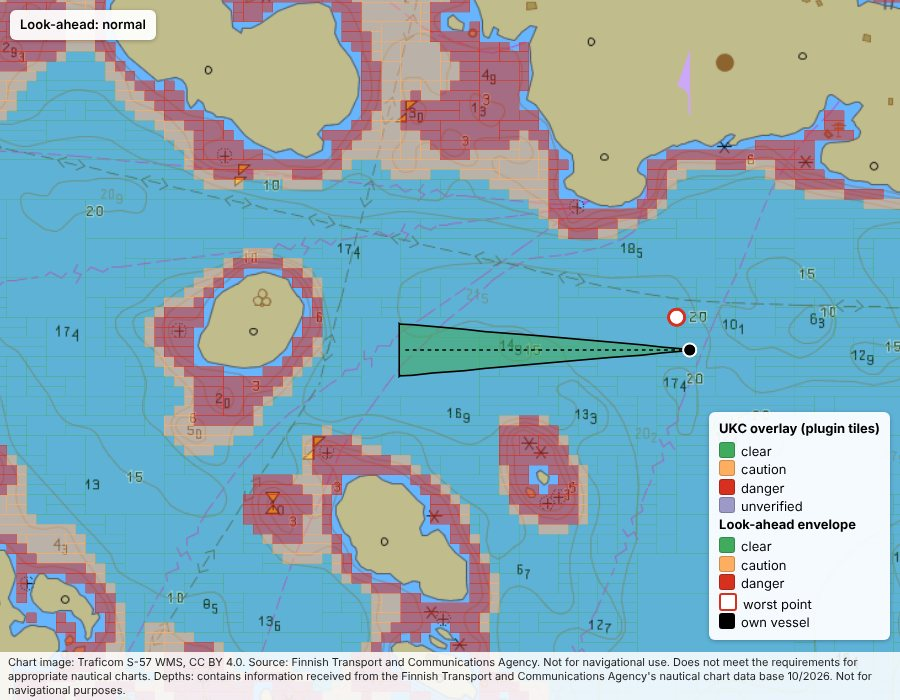
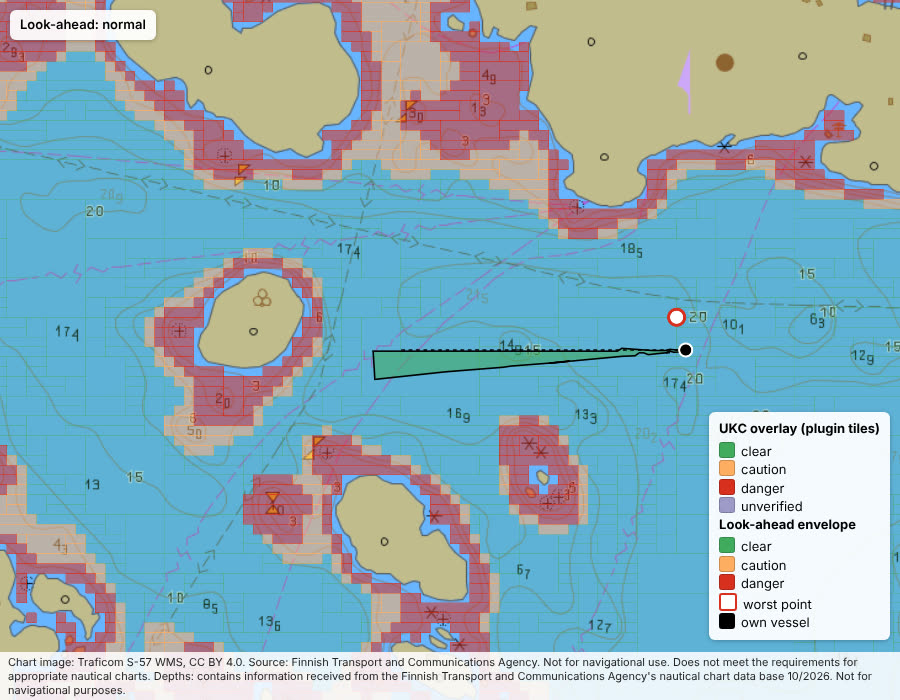
docs: how the M4 look-ahead behaves: fan, hysteresis, escape heading, integrity, acks
The guide now describes the five-member fan and its convex-hull
footprint, why slowing down does not shorten the envelope, state
hysteresis, the escape heading, the position integrity check,
acknowledged passages and mooring zones, and the grounding detector.
The four Nauvo look-ahead screenshots are re-taken on this build and
the approach timings and alarm example match them.

Claude-Session: https://claude.ai/code/session_01RqAaJ4mFiWNeCzGpoFBYWA

diff --git a/docs/HOW-IT-WORKS.md b/docs/HOW-IT-WORKS.md
@@ -209,17 +209,33 @@ flowchart TD
   M -- no --> ONE[check only the hull<br/>at the current position]
   M -- yes --> S{SOG ≥ 0.5 kn?}
   S -- no --> ONE
-  S -- yes --> CONE[footprints along COG<br/>for H = max 60 s, 555.6 m ÷ SOG]
-  ONE & CONE --> Q[for each footprint:<br/>shallowest depth + σ from the index,<br/>P per index tile, keep the highest]
-  Q --> ST[state table, section 7]
-  ST --> PUB[publish values, envelope<br/>and notification]
+  S -- yes --> CONE[fan of five tracks from COG, SOG<br/>and rate of turn, for<br/>H = max 60 s, 555.6 m ÷ SOG]
+  ONE & CONE --> Q[for each step: one footprint<br/>around the five hulls; shallowest depth<br/>+ σ from the index, P per index tile,<br/>keep the highest]
+  Q --> ST[state table and hysteresis,<br/>section 7]
+  ST --> Z{inside an acknowledged<br/>passage or mooring zone?}
+  Z -- yes --> AL[warn and alarm published<br/>as alert with the reason]
+  Z -- no --> PUB[publish values, envelope,<br/>escape heading and notification]
+  AL --> PUB
 ```
 
-A footprint is the hull rectangle (length × beam) turned to the heading, placed where COG and
-SOG put the boat after t seconds. It widens by tan 5° per metre run, because the course
-becomes less certain the further ahead it goes, and it gets a 10 m buffer for position error.
-Footprints are at most 3 s apart; for a fast boat the step shrinks so neighbouring footprints
-still touch. At 5 kn (2.6 m/s) the horizon is 214 s, checked with 73 footprints.
+The prediction is a fan of five tracks. The central track keeps the current speed and rate of
+turn. The other four add or take 1σ of course (5°) and of rate of turn (0.1°/s), because the
+course becomes less certain the further ahead it goes. A turn is held for at most 60 s; after
+that the track runs straight.
+
+At each step the plugin places the hull rectangle (length × beam) on each of the five tracks
+and joins them into one footprint, the convex hull of the five. The index is asked about that
+footprint, so the water between the tracks is checked too. The footprint gets a buffer for
+position error, at least 10 m or 2σ of the position uncertainty, and grows fore and aft with
+the speed uncertainty. The position σ comes from the GNSS (HDOP × 3 m, 5 m without HDOP) and
+is raised by the integrity check in section 7.
+
+Steps are at most 3 s apart; for a fast boat the step shrinks so neighbouring footprints still
+touch. At 5 kn (2.6 m/s) the horizon is 214 s.
+
+Below 18 kn the horizon always reaches 555.6 m ahead, so slowing down does not shorten the
+envelope. The same distance takes longer, though: 154 s at 7 kn, 270 s at 4 kn. Warn and alarm
+count seconds to the shoal, so at lower speed they come closer to it.
 
 The look-ahead uses the current speed for squat and the current roll for heel. Roll older than
 10 s is ignored.
@@ -241,6 +257,11 @@ when it rests on less than full input:
 - course or speed stale: `unknown` ("only the current position is checked");
 - water level is a fallback: `alert` with the fallback's reason.
 
+A state is raised after 2 consecutive seconds at its level and lowered after 5 consecutive
+seconds below 80 % of its threshold, so a footprint that touches a shoal edge now and then
+does not toggle the alarm. `unknown` and `off` apply at once: missing input is never held as an
+earlier state.
+
 ### The approach, step by step
 
 The simulated vessel runs west at 5 kn along 60.0814° N toward an island. The envelope is
@@ -254,13 +275,16 @@ coloured per footprint class (green clear, amber caution, red danger) over the U
 | State    | Vessel at | Reason published            | Why                                                           |
 | -------- | --------- | --------------------------- | ------------------------------------------------------------- |
 | `normal` | 22.0790 E | none                        | no footprint in the 214 s horizon reaches P 1 %               |
-| `alert`  | 22.0750 E | `shoal risk ahead in 183 s` | the island is in the horizon, but more than 120 s ahead       |
-| `warn`   | 22.0710 E | `shoal ahead in 99 s`       | P ≥ 5 % reached within 120 s                                  |
-| `alarm`  | 22.0670 E | `shoal ahead in 21 s`       | P ≥ 20 % within 60 s, and the mean UKC is below 0 within 30 s |
+| `alert`  | 22.0750 E | `shoal risk ahead in 168 s` | the island is in the horizon, but more than 120 s ahead       |
+| `warn`   | 22.0710 E | `shoal ahead in 90 s`       | P ≥ 5 % reached within 120 s                                  |
+| `alarm`  | 22.0670 E | `shoal ahead in 18 s`       | P ≥ 20 % within 60 s, and the mean UKC is below 0 within 30 s |
 
 In `alert`, `warn` and `alarm` the deciding point is the island itself, with P > 99 %. What
 changes is how soon the boat gets there. The white ring is the centre of the index tile that set
 the highest P; in clear water that can be a large tile whose centre lies off the track.
+
+The escape heading published at the same points is 255° in `alert`, 245° in `warn` and 220° in
+`alarm`: a turn to port that passes south of the island, growing as the island gets closer.
 
 The thresholds and time windows are set under **Look-ahead**:
 
@@ -272,16 +296,18 @@ The thresholds and time windows are set under **Look-ahead**:
 
 Published every second:
 
-| Path                                  | Unit  | Meaning                                                           |
-| ------------------------------------- | ----- | ----------------------------------------------------------------- |
-| `navigation.underKeel.state`          |       | `normal`, `alert`, `warn`, `alarm`, `unknown`, `off`              |
-| `navigation.underKeel.clearance`      | m     | lowest mean UKC over the horizon                                  |
-| `navigation.underKeel.clearanceSigma` | m     | σ of that clearance, from the same footprint                      |
-| `navigation.underKeel.risk`           | ratio | highest P(UKC < 0) over the horizon                               |
-| `navigation.underKeel.timeToShoal`    | s     | seconds until P first reaches the warn level; null if it does not |
-| `navigation.underKeel.envelopeRev`    |       | increments when `GET /envelope` changes                           |
-| `navigation.underKeel.waterLevel`     | m     | water level applied above chart datum                             |
-| `notifications.navigation.underKeel`  |       | state, message and the explanation of every term                  |
+| Path                                         | Unit  | Meaning                                                           |
+| -------------------------------------------- | ----- | ----------------------------------------------------------------- |
+| `navigation.underKeel.state`                 |       | `normal`, `alert`, `warn`, `alarm`, `unknown`, `off`              |
+| `navigation.underKeel.clearance`             | m     | lowest mean UKC over the horizon                                  |
+| `navigation.underKeel.clearanceSigma`        | m     | σ of that clearance, from the same footprint                      |
+| `navigation.underKeel.risk`                  | ratio | highest P(UKC < 0) over the horizon                               |
+| `navigation.underKeel.timeToShoal`           | s     | seconds until P first reaches the warn level; null if it does not |
+| `navigation.underKeel.escapeHeading`         | rad   | true heading to turn to, below; null in `normal`                  |
+| `navigation.underKeel.envelopeRev`           |       | increments when `GET /envelope` changes                           |
+| `navigation.underKeel.waterLevel`            | m     | water level applied above chart datum                             |
+| `notifications.navigation.underKeel`         |       | state, message and the explanation of every term                  |
+| `notifications.navigation.positionIntegrity` |       | GNSS fix doubtful, below                                          |
 
 `clearance` is `null` when nothing is charted, and also when a footprint reaches land, as in the
 Data Browser picture: the lowest UKC is then −∞, which JSON cannot carry. `state` and `risk`
@@ -295,13 +321,13 @@ and the named hazard when one set the depth. The `alarm` from the approach:
 {
   "state": "alarm",
   "method": ["visual", "sound"],
-  "message": "shoal ahead in 21 s: land + 0.2 m water level (manual) − draft 2.2 m − squat 0.1 m + heel 0 m − wave 0 m → μ = −∞ m, σ = 0.51 m, P = > 99 %",
+  "message": "shoal ahead in 18 s: land + 0.2 m water level (manual) − draft 2.2 m − squat 0.1 m + heel 0 m − wave 0 m → μ = −∞ m, σ = 0.51 m, P = > 99 %",
   "data": {
     "engineState": "alarm",
     "clearance": null,
     "clearanceSigma": 0.51,
     "risk": 1,
-    "timeToShoal": 21,
+    "timeToShoal": 18,
     "explanation": {
       "charted": null,
       "sigmaCharted": 0.5,
@@ -325,6 +351,64 @@ and the named hazard when one set the depth. The `alarm` from the approach:
 
 `clearanceSigma` is rounded here. The server adds `id` and `status` for acknowledging and
 silencing.
+
+### Escape heading
+
+In `alert`, `warn` and `alarm` the plugin also looks for a way out. It tries headings in 5°
+steps out to 90° either side, smallest change first, each reached by a turn at the boat's
+maximum rate of turn (3°/s by default). The first heading that stays clear over the whole
+horizon wins; if none does, the one with the most time before shoal water. The result is
+published as `navigation.underKeel.escapeHeading`. It is searched at most every 3 s and held in
+between. The plugin only publishes it; it never steers.
+
+### Position integrity
+
+The look-ahead is only as good as the position. Each second the plugin compares the GNSS fix
+with a dead-reckoning track from heading, speed through water and a current learned while the
+boat holds its course. When the fix moves further from that track than their combined
+uncertainty allows, as when GNSS is jammed or spoofed:
+
+- the position σ is raised to the distance between them, so every footprint grows;
+- `notifications.navigation.positionIntegrity` is raised as `warn` with the reason.
+
+A fix that is not a satellite fix sets the position σ to at least 50 m, and an HDOP above 4 is
+reported the same way. Without speed through water the check cannot run; the notification and
+`/status` say so.
+
+### Acknowledged passages and mooring zones
+
+Some places alarm every time and are known to be fine, such as a narrow channel the skipper
+uses daily. `POST /acks` records an acknowledgement for the current situation:
+
+- the area of the current look-ahead footprints, or a polygon given in the request;
+- a heading sector, ±20° by default;
+- the current water level and draft;
+- an optional expiry.
+
+Later, while the footprint is inside that area, the heading inside the sector, the water level
+no more than 5 cm lower and the draft no deeper, `warn` and `alarm` are published as `alert`
+with the reason "acknowledged passage". They are never published as `normal`. A negative mean
+UKC within 30 s is never suppressed: an acknowledgement covers an uncertain chart, not a charted
+depth shallower than the keel. `GET /acks` lists them; `POST` and `DELETE /acks/:id` need
+read-write access.
+
+Mooring zones work the same way without a heading or water-level condition. They are Signal K
+regions named in the settings, for example the home berth; inside one, `warn` and `alarm` are
+published as `alert` with the zone's name.
+
+### Grounding detector
+
+The optional grounding detector, off by default, is the only part of the plugin that writes
+`notifications.grounding`, the Signal K emergency that means "aground". It fires when all of
+these hold:
+
+- SOG falls by more than 70 % within 5 s, from at least 0.5 m/s;
+- there was no gear change in the last 10 s;
+- the measured depth is within 0.3 m of the draft, or the look-ahead puts P ≥ 80 % under the
+  boat;
+- when an acceleration path is configured, a deceleration of at least 2 m/s² in the last 5 s.
+
+It holds until SOG stays above 0.5 m/s for 10 s.
 
 ## 8. Water level
 
@@ -443,8 +527,9 @@ as the notification. A plotter can use it for a cursor readout.
 - It never marks a route leg `ok` when the corridor lacks coverage or survey quality; such legs
   are `unverified`.
 - It never sends autopilot or steering commands.
-- It never writes `notifications.grounding`; look-ahead warnings use
-  `notifications.navigation.underKeel`.
+- Only the optional grounding detector writes `notifications.grounding`; look-ahead warnings
+  use `notifications.navigation.underKeel`.
+- An acknowledged passage or a mooring zone never turns a warning into `normal`.
 
 ## 13. Known limits
 
